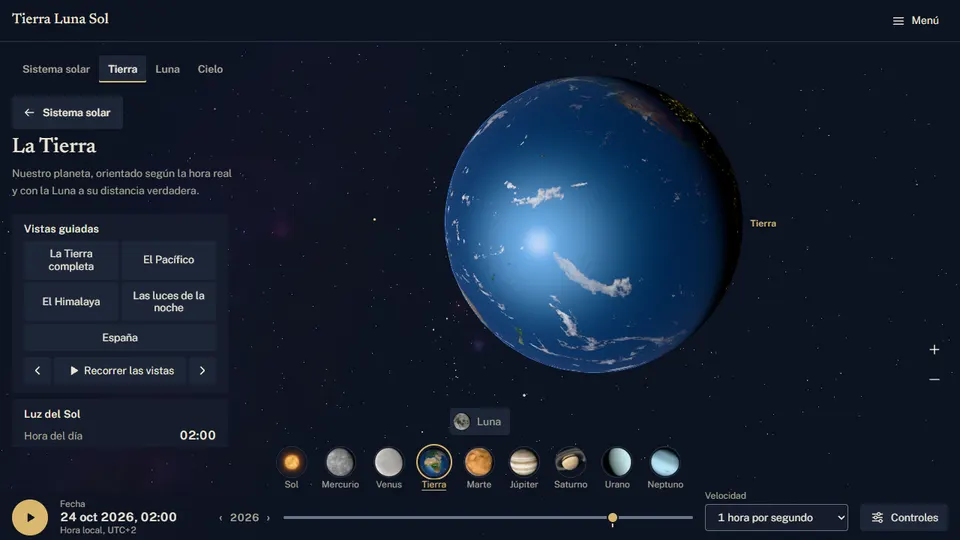
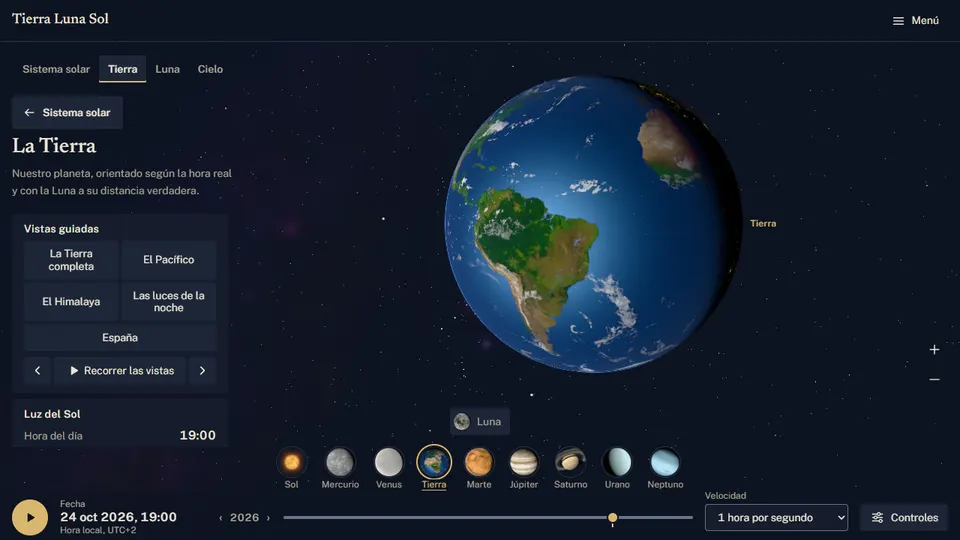
fix: la revisión de la fase 11 (aprobada con cambios menores): producción solo desde etiqueta, el NEL en todas las respuestas y og:image comprobada
- deploy-production.yml: solo desde una etiqueta `v*`; el dominio, de site.config.ts; un fallo
  pasajero de `gh run list` no corta la espera; verifica también tierra-luna-sol.pages.dev.
- verify-pages.mjs: Set-Cookie, NEL y Report-To en todas las respuestas; og:image, una imagen que
  responde.
- «Sobre el proyecto»: la nota del NEL, más clara y exacta; e2e y lista de textos al día.
- README y CHANGELOG con las cifras de su fuente; la Tierra del README, de día y al anochecer.
- El informe, con la respuesta a la revisión; PENDIENTES, al día.

Changed region(s): [[0.4688, 0.1481, 0.75, 0.7111], [0.1875, 0.8, 0.2188, 0.8296], [0.125, 0.9481, 0.1562, 0.9778]]

diff --git a/src/app/pages/about/about-page.html b/src/app/pages/about/about-page.html
@@ -410,10 +410,10 @@
       navegador: no va a la dirección de la página ni se guarda.
     </li>
     <li>
-      En {{ host }} no se envían informes de errores al alojamiento (Network Error Logging): están
-      desactivados. Solo los pide Cloudflare Pages, el alojamiento, en sus propias direcciones (las
-      que acaban en pages.dev, como las vistas previas), a Chrome y Edge y cuando una petición
-      falla.
+      En {{ host }}, el alojamiento no recibe informes de errores (Network Error Logging): están
+      desactivados. En sus propias direcciones, las que acaban en pages.dev (como las vistas
+      previas), Cloudflare Pages pide a algunos navegadores (Chrome y Edge) que le envíen un informe
+      cuando falla una petición.
     </li>
   </ul>
   <p>

diff --git a/e2e/contenido.spec.ts b/e2e/contenido.spec.ts
@@ -362,7 +362,9 @@ test.describe('Compartir, legal y privacidad (fase 9)', () => {
     // propio no se envía (lo quita una regla de la zona); solo en las direcciones de pages.dev.
     const privacy = page.locator('section[aria-labelledby="privacidad"]');
     await expect(privacy).toContainText('Network Error Logging');
-    await expect(privacy).toContainText('En tierra-luna-sol.ivanchesa.com no');
+    await expect(privacy).toContainText(
+      'En tierra-luna-sol.ivanchesa.com, el alojamiento no recibe',
+    );
   });
 
   test('en escritorio, la cabecera de las páginas de lectura, en una fila y sin lo legal (hallazgo 4)', async ({

diff --git a/docs/revisiones/fase-11.md b/docs/revisiones/fase-11.md
@@ -1,0 +1,57 @@
+# Revisión: Fase 11
+Veredicto: APROBADA CON CAMBIOS MENORES
+
+Revisor: subagente sin el contexto de la sesión que la programó (10-11). Leídos `CLAUDE.md`, `docs/PLAN.md` (§0–§5, §7 y la fase 11), `docs/revisiones/README.md`, `docs/informes/fase-11.md` y el diff `main...fase-11-lanzamiento` (6 commits, de `4aa5481` a `534d6e4`). Sin Bloqueantes. Lo de la rama está bien hecho y el camino normal de `deploy-production.yml` es correcto; el hallazgo importante es del **plan** de la verificación en producción (hallazgo 1), que se arregla en el informe antes de fusionar.
+
+## `npm run check` (rama `fase-11-lanzamiento`, `534d6e4`)
+
+Salida 0, en unos 3 min:
+
+- `ng lint`: «All files pass linting»; Prettier, bien.
+- Tests: **835 en verde (85 ficheros)**. Cobertura de `ephemeris/`: 98,87 % de sentencias, 94,16 % de ramas, 100 % de funciones y **99,69 % de líneas** (umbral, 90 %).
+- Build: **sin avisos de presupuesto**. JS inicial, **319,67 kB** en bruto (90,23 kB transferidos): igual que `main` en su último CI (ejecución 42881759191, 319,67 kB), a 0,33 kB del aviso de 320. `prepare-pages.mjs`: 39 rutas como `ruta.html`, 40 páginas, 386 rutas absolutas, 4 scripts en línea en la CSP, **39 URLs en `sitemap.xml`**, 295 ficheros.
+- `check-initial-bundle.mjs`: ninguna de las 40 páginas lleva three, astronomy-engine, los stores ni los controles; código propio inicial, 13,98 kB de 15.
+- `check-links.mjs`: 40 páginas, 1243 enlaces internos bien.
+
+## Otras comprobaciones
+
+- `npx playwright test --list`: **153 tests en 23 ficheros** (los 140 + 13 omitidos del informe).
+- `node scripts/verify-browser.mjs http://127.0.0.1:4392`, contra el build local servido en el 4392: las 10 rutas sin panel de rendimiento, 372 peticiones, 0 a otros dominios y 0 cookies. El script funciona.
+- El build: `robots.txt` con `Allow: /` y el `Sitemap:` del dominio; `sitemap.xml` con las 39 rutas menos la 404; `noindex` solo en `404.html`; el canónico de la raíz, con barra; la nota del NEL, con el dominio interpolado. Sin `http://` ni direcciones de correo en el HTML (lo que reescribirían en el dominio propio la ofuscación de correos o las reescrituras a HTTPS de la zona).
+- Solo lectura, sin tocar nada: `https://ivanchesa.com/aviso-legal/` y `/privacidad/`, 200. `http://tierra-luna-sol.ivanchesa.com/`, 301 a https. El dominio propio (la producción, vacía) responde 404 **sin `NEL` ni `Report-To`**: la regla de la zona funciona. `staging.tierra-luna-sol.pages.dev`, con `x-robots-tag: noindex`, `Report-To` y `NEL`. La portada de ivanchesa.com, en la misma zona, sin nada inyectado (ni el beacon de Web Analytics, ni `challenge-platform`, ni `email-decode`, ni Zaraz), sin `Set-Cookie` y con `Cache-Control: public, max-age=0, must-revalidate`: la zona no toca el HTML ni la caché. Hoy, `/robots.txt` del dominio propio es el texto de Content Signals de Cloudflare (solo comentarios), porque aún no hay producción.
+- El CI de la rama (`534d6e4`, ejecución 42887119186, consultado sin tocar nada): **en verde**, en 28 min. Los e2e en Linux, **152 en verde y 1 omitido** (con la regresión visual), en 23,9 min. Lighthouse, en verde, con un solo aviso: el rendimiento del explorador, **0,49** (en `main`, 0,64). Y la vista previa: `verify-pages.mjs`, con sus comprobaciones nuevas, contra `https://f2af6458.tierra-luna-sol.pages.dev`, **37 de 38 bien y 1 aviso** (el NEL, como se espera en pages.dev): `noindex` por cabecera y no en el HTML, `robots.txt` con el sitemap, `sitemap.xml` como `application/xml` con 39 URLs (el tipo que imita `serve-dist.mjs`), el 404 con `noindex`, el HTML idéntico al del build y sin `Set-Cookie`.
+- Lo que dura hoy el CI: de 28 a 30 min en las últimas ejecuciones de `main`, de la fase 10 y de esta rama.
+
+## `deploy-production.yml`
+
+Correcto en el camino normal (fusión, push de `main`, etiqueta y su push):
+
+- Publica solo el build que verificó el CI de ese mismo commit: el SHA sale de `git rev-parse HEAD` tras el checkout de la etiqueta (con una etiqueta anotada, el commit y no el objeto etiqueta); la ejecución, de `gh run list --workflow ci.yml --commit <sha> --event push` (las de `pull_request` no cuentan; con varias, la más reciente); y solo con `conclusion == success`, que deja fuera `failure`, `cancelled` o `timed_out`. Como exige el CI entero, la producción espera también a Lighthouse (accesibilidad y buenas prácticas, como error) y a la vista previa.
+- El artefacto de otra ejecución, con `run-id` y `github-token`, y `actions: read` en el trabajo; permisos mínimos (`contents: read`), los secrets solo en el paso de wrangler, `persist-credentials: false`, las acciones fijadas por SHA (las de `ci.yml`) y la concurrencia sin cancelar.
+- `--branch=main` es la rama de producción del proyecto (creado con `--production-branch=main`) y `--commit-hash` lleva el SHA verificado.
+- La verificación en la dirección del despliegue (`<hash>.tierra-luna-sol.pages.dev`, con su `noindex` por la regla `:version.:project`) y en el dominio, con reintentos y comparando el HTML con el del build.
+- Casos límite: con el CI en rojo o cancelado (por ejemplo, por otro push a `main` en mitad), sale con error y no publica; sin CI, espera 45 min y falla; con el artefacto caducado (7 días), falla la descarga y no publica. Lo que queda: el lanzamiento manual desde una rama (hallazgo 2), un error pasajero de la API (3), el dominio repetido (4), la dirección de producción en pages.dev (5) y la espera (14).
+
+## El plan de la verificación en producción
+
+Bien encaminado: `verify-pages.mjs` (ahora con `Set-Cookie`, el `X-Robots-Tag` y el NEL en las dos direcciones, `robots.txt`, `sitemap.xml` y `noindex` solo en la 404), `verify-browser.mjs` (terceros, cookies, consola y el panel de desarrollo, con la GPU) y Lighthouse con `LHCI_BASE` (informes solo en el disco). La desviación de «contra el build local» está documentada y es lo que pide la tarea 2 (y lo que ya preveía `PENDIENTES.md`:185). Le falta: cómo se juzga Lighthouse frente a §5 (hallazgo 1), la dirección de producción en pages.dev (5), el NEL en más de una respuesta (6) y la vista previa del enlace con el dominio real (12).
+
+## Hallazgos
+
+| # | Severidad | Archivo:línea | Hallazgo | Qué hacer |
+|---|---|---|---|---|
+| 1 | Importante | `docs/informes/fase-11.md`:18 y :30; `lighthouserc.js`:98 | El plan no dice cómo se juzga «Lighthouse en producción cumple §5», y el resultado de `lhci assert` no lo dice: el rendimiento del explorador es un aviso (`scores(0.9, 'warn')`) y el LCP, el CLS y el TBT no tienen aserción. Y ya se sabe que el explorador no llega: 0,76 en local, con un LCP simulado de 2,5 a 5,0 s (informe de la fase 10, §2 y §4.22), y 0,64 en el último CI de `main` (0,49 en el de esta rama); la decisión está pendiente de Iván (`PENDIENTES.md`:184). Tal como está, el criterio podría darse por cumplido con el `lhci assert` en verde. | En §0 (paso 4) y §2, decirlo ya: el criterio no se cumple en el explorador salvo que Iván elija la opción 1 de `PENDIENTES.md`:184. Al medir, sacar de `.lighthouseci/informes` la mediana de cada URL (rendimiento, accesibilidad, buenas prácticas, LCP, CLS y TBT), compararla con §5 una a una y marcar ⚠ o ❌ donde no llegue. Con el equipo libre (sin otras sesiones ni builds en marcha). |
+| 2 | Menor | `.github/workflows/deploy-production.yml`:13 | `workflow_dispatch` acepta cualquier ref. Con «Run workflow» y la rama que trae el formulario por defecto (`main`), publica en producción la cabeza de `main` sin etiqueta (el resumen diría «Versión: `main`»), en contra de «desplegada por etiqueta» y del CHANGELOG. | En el trabajo, `if: startsWith(github.ref, 'refs/tags/v')`, o un primer paso que falle con un `::error::` claro. |
+| 3 | Menor | `.github/workflows/deploy-production.yml`:56–57 | El paso corre con `bash -e`: si una de las ~90 llamadas a `gh run list` falla por un error pasajero de la API, `run=$(…)` aborta el paso en vez de volver a mirar a los 30 s. No publica nada (es seguro), pero obliga a relanzarlo. | `run=$(gh run list …) || run=''`, con un aviso, para que el bucle siga. |
+| 4 | Menor | `.github/workflows/deploy-production.yml`:35 | `SITE_URL` repite el dominio, que según `CLAUDE.md` vive solo en `site.config.ts` (el propio informe lo invoca para `robots.txt`, §4). Si el dominio cambia, el workflow verificaría el viejo. | Leerlo de `site.config.ts` en un paso (`node --input-type=module -e` con `import('./src/app/core/site.config.ts')`, como ya hacen los scripts con Node 24), o que `verify-pages.mjs` acepte `--site` con `SITE_CONFIG.baseUrl` por defecto. |
+| 5 | Menor | `.github/workflows/deploy-production.yml`:120; `public/_headers`:27 y :30 | La verificación mira la dirección del despliegue (que casa con la regla `https://:version.:project.pages.dev/*`) y el dominio, pero no `https://tierra-luna-sol.pages.dev`, la dirección de producción en pages.dev: es la única que depende de la regla `https://:project.pages.dev/*`. Ninguna de las dos reglas se ha probado sola (en las vistas previas, Pages pone su propio `noindex`), y esa, ni siquiera se ha podido pedir: la producción estaba vacía (hoy, 404). Si no casara, esa dirección se indexaría ahora que el sitio es indexable. | Añadirla a los destinos del bucle (o, como mínimo, a la verificación manual del §0, paso 4). |
+| 6 | Menor | `scripts/verify-pages.mjs`:103–108 y :36 | El NEL solo se mira en la respuesta de `/`. «Sobre el proyecto» promete ya que en el dominio no se envían informes, y la política la fija cualquier respuesta (un 404, un JS, una textura). Además, el comentario «todas las peticiones pasan por `get`» no es cierto: las de los `Link` (:158) y la de `http://` (:232) van con `fetch` y no se miran sus `Set-Cookie`. | Registrar `NEL` y `Report-To` en `get`, como `Set-Cookie`, y comprobarlos en todas las respuestas (error en el dominio, aviso en pages.dev); pasar por el mismo registro las otras dos peticiones. |
+| 7 | Menor | `src/app/pages/about/about-page.html`:413–416 | La segunda frase de la nota del NEL junta cuatro complementos («Solo los pide Cloudflare Pages, el alojamiento, en sus propias direcciones (…), a Chrome y Edge y cuando una petición falla») y dice que el alojamiento los pide cuando falla una petición: los pide en cada respuesta y el navegador solo envía el informe si falla. También pasa de «algunos navegadores (Chrome y Edge)» a «Chrome y Edge», como si fueran los únicos. `docs/ESTILO.md` §2: una idea por frase. | Por ejemplo: «En {{ host }}, el alojamiento no recibe informes de errores (Network Error Logging): están desactivados. En sus propias direcciones, las que acaban en pages.dev (como las vistas previas), Cloudflare Pages pide a algunos navegadores (Chrome y Edge) que le envíen un informe cuando falla una petición.» Ajustar el e2e (`e2e/contenido.spec.ts`:365) y regenerar `docs/revision-textos.md`. |
+| 8 | Menor | `README.md`:32 y :101; `CHANGELOG.md`:28 | Cifras que no cuadran con su fuente. Los e2e son **153** (`npx playwright test --list`; el informe, 140 + 13 omitidos; el CI de la rama, 152 + 1), no 151 (README) ni 152 (CHANGELOG, la cifra de la fase 10). Y las vistas previas no esperan a Lighthouse: el trabajo `deploy` de `ci.yml` (:182) solo necesita `check` y `e2e`, y el propio `ci.yml` (:133) dice que Lighthouse «no frena la vista previa» (sí frena la producción, que exige el CI entero en verde). | «153 e2e» en los dos. En el README, «(lint, tests, build y e2e)» para las vistas previas y, si se quiere, que la producción exige además Lighthouse. |
+| 9 | Menor | `README.md`:76, :79 y :81; `CHANGELOG.md`:25 | Afirmaciones más redondas que su fuente. «59–60 FPS en todas las vistas y niveles» calla que Fobos en alto pinta a 5–9 FPS a 1 día/s, a propósito (fase 10, §4.26; lo arrastra también «Sobre el proyecto»). El CLS «0» es el de la fase 3c, en tres móviles, aunque la tabla dice medir en el PC de la fase 10, que da 0,006 en el explorador (§4.22). El presupuesto del JS inicial es «aviso a 320 kB, error a 400», y 319,7 kB está a 0,3 kB del aviso. Y «axe sin violaciones» es, en `e2e/accesibilidad.spec.ts`:15–21, «sin violaciones graves ni críticas» (el criterio de §5). | Matizarlo: «60 (a 1 día/s, Fobos en alto pinta a 5–9 a propósito)», «CLS ≤ 0,006» con su informe, «320 kB (aviso) · 400 (error)» y «axe sin violaciones graves ni críticas». |
+| 10 | Menor | `docs/informes/fase-11.md`:60 | «98,87 % de líneas»: el 98,87 % es la cobertura de sentencias; la de líneas es el 99,69 %. | Corregir la etiqueta (o dar las dos). |
+| 11 | Menor | `docs/PENDIENTES.md`:58, :106 y :191–194 | Lo que resuelve esta rama sigue abierto. Se quita el `TODO(ivan)` de los enlaces legales de `site.config.ts`, pero la entrada :106 sigue «[ ]», cita ese `TODO` y el modo «pendientes del dominio» de `check-links.mjs`, que ya no existe. La :58 dice que `verify-pages` marca el NEL como aviso (ahora es error en el dominio). Y en «Fase 11», el dominio (:191) y el OK a `indexable` (:192) ya están; el sitemap ahora sí existe, así que darlo de alta en Search Console vuelve a tener sentido. | Actualizarlas en la rama antes de fusionar. La lista nueva para Iván (§0, paso 5) puede quedarse para el cierre. |
+| 12 | Menor | `docs/informes/fase-11.md`:18 | El plan de verificación no recoge la vista previa del enlace con el dominio real, el criterio de la fase 9 que esperaba al dominio (`PENDIENTES.md`:107: `og:image` es una URL del dominio, que hasta ahora no se podía pedir). | Añadir al paso 4 que `og:image` responde 200 y es una imagen (cabe en `verify-pages.mjs`) y una captura en una app real o en un validador. |
+| 13 | Menor | `README.md`:20 (`docs/img/readme/tierra.webp`) | Con la hora de `?captura=1` (00:00 UTC), la Tierra enseña casi solo el Pacífico: una bola azul con un brillo grande, sin relieve a la vista y con las luces apenas en el borde. El texto alternativo promete «su relieve, sus nubes y las luces de la noche», y es la imagen con la que se juzga la Tierra en el portfolio. Las demás (portada, Luna, Saturno, cielo, ficha y la animación) están bien. | Otra hora, con continentes y el terminador (por ejemplo, `&fecha=2026-10-24T17:00Z`, con Europa y África al anochecer), o la vista guiada de las luces; y el texto alternativo de lo que se vea. |
+| 14 | Sugerencia | `.github/workflows/deploy-production.yml`:55 y :77 | La espera (45 min) cubre lo que tarda hoy el CI (28–30 min), pero no sus tiempos máximos (check 20 + e2e 40 + vista previa 20): si se pasa, no publica. Sin CI (una etiqueta en un commit que no está en ninguna rama), tarda 45 min en decirlo. Y «relanzar su CI» (comentario de :9) para recuperar un artefacto caducado también vuelve a publicar ese build en su vista previa (en `staging`, si es de `main`). | Decirlo en el `::error::` («relanza Producción desde la etiqueta cuando acabe el CI») y en el comentario. Opcional: comprobar que la versión de la etiqueta es la de `package.json`. |
+| 15 | Sugerencia | `docs/informes/fase-11.md`:18 | Si la verificación falla en el dominio y no en pages.dev, la causa estará en la zona: el `robots.txt` gestionado de Cloudflare (añade `Disallow: /` para los bots de IA y haría saltar «robots.txt sin bloquear el rastreo»), las detecciones de JavaScript de Bot Fight Mode y su cookie `__cf_bm`, Rocket Loader, Zaraz o Web Analytics automático. Hoy ivanchesa.com, en la misma zona, no lleva nada de eso. | Apuntarlo en el informe para diagnosticarlo rápido. El arreglo sería de Iván, en la zona. |

diff --git a/docs/informes/fase-11.md b/docs/informes/fase-11.md
@@ -15,26 +15,28 @@ Instrucciones de Iván y de la sesión de revisión (10-11): se lanza ya, antes 
    - La nota del NEL en «Sobre el proyecto»: en el dominio propio no se envía. Los enlaces legales del pie, comprobados.
 2. `npm run check`, los e2e, este informe, la revisión por subagente y sus correcciones.
 3. Fusión `--no-ff` en `main`, push, etiqueta `v1.0.0` y su push; esperar al despliegue de producción en verde.
-4. **Tarea 2, verificación en producción**, con cifras: `curl` de las rutas, del 404 y de las cabeceras (sin Set-Cookie, sin NEL ni Report-To, X-Robots-Tag solo en pages.dev); Lighthouse frente a §5; el panel de rendimiento, ausente; ninguna petición a terceros. Si algo falla, corregir y publicar `v1.0.1`.
+4. **Tarea 2, verificación en producción**, con cifras: `curl` de las rutas, del 404 y de las cabeceras (sin Set-Cookie, sin NEL ni Report-To, X-Robots-Tag solo en pages.dev); Lighthouse frente a §5; el panel de rendimiento, ausente; ninguna petición a terceros; `og:image`, una imagen del dominio que responde. Si algo falla, corregir y publicar `v1.0.1`.
+   - **Cómo se juzga Lighthouse** (revisión, hallazgo 1): con el equipo libre, la mediana de 5 cargas de cada URL de la muestra (rendimiento, accesibilidad, buenas prácticas, LCP, CLS y TBT), comparada con §5 una a una, con ⚠ o ❌ donde no llegue; no basta con `lhci assert` en verde, porque el rendimiento del explorador va como aviso. **Se sabe ya que el explorador no llega a 0,90** (0,76 en local en la fase 10): ese criterio no se cumple salvo que Iván elija la opción 1 de `PENDIENTES.md` (dejarlo como aviso).
+   - **Si algo falla en el dominio y no en pages.dev** (revisión, sugerencia 15), la causa estará en la zona: el `robots.txt` gestionado de Cloudflare, Bot Fight Mode y su cookie `__cf_bm`, Rocket Loader, Zaraz o Web Analytics automático. El arreglo sería de Iván, en la zona.
 5. **Tarea 5**, la lista para Iván en `PENDIENTES.md`, y el DIARIO.
 
 ## 1. Resumen
 
-El sitio pasa a indexable, con `robots.txt` y `sitemap.xml` generados desde `site.config.ts`, y la producción se publica por etiqueta con `deploy-production.yml`, que reutiliza el build que verificó el CI. «Sobre el proyecto» dice ya que en el dominio propio no se envía Network Error Logging. El README es ya de portfolio, con capturas y una animación, y hay CHANGELOG. La verificación en producción (`verify-pages.mjs`, `verify-browser.mjs` y Lighthouse con `LHCI_BASE`) se completa al publicar `v1.0.0` (§4).
+El sitio pasa a indexable, con `robots.txt` y `sitemap.xml` generados desde `site.config.ts`, y la producción se publica por etiqueta con `deploy-production.yml`, que reutiliza el build que verificó el CI. «Sobre el proyecto» dice ya que en el dominio propio no se envía Network Error Logging. El README es ya de portfolio, con capturas y una animación, y hay CHANGELOG. La verificación en producción (`verify-pages.mjs`, `verify-browser.mjs` y Lighthouse con `LHCI_BASE`) se completa al publicar `v1.0.0` (§12).
 
 ## 2. Criterios de aceptación
 
 | Criterio | ✅/❌ | Evidencia |
 |---|---|---|
-| `v1.0.0` publicada en producción con HTTPS, desplegada por etiqueta | pendiente | §4 |
-| Las comprobaciones con `curl` y Lighthouse en producción cumplen §5 | pendiente | §4 |
+| `v1.0.0` publicada en producción con HTTPS, desplegada por etiqueta | pendiente | §12 |
+| Las comprobaciones con `curl` y Lighthouse en producción cumplen §5 | pendiente; el rendimiento del explorador en Lighthouse no llegará a 0,90 (decisión de Iván, `PENDIENTES.md`) | §12 |
 
 ## 3. Tareas del plan
 
 | Tarea | Estado | Notas |
 |---|---|---|
 | 11.1 `deploy-production.yml` | hecha (sin estrenar) | `.github/workflows/deploy-production.yml` |
-| 11.2 Verificación en producción | pendiente | §4 |
+| 11.2 Verificación en producción | pendiente | §12 |
 | 11.3 README, CHANGELOG y `v1.0.0` | README y CHANGELOG hechos; la etiqueta, al publicar | |
 | 11.4 `indexable: true` | hecha | `robots.txt` y `sitemap.xml` (39 URLs) generados; `noindex` solo en la 404 |
 | 11.5 Lista para Iván | pendiente | `PENDIENTES.md` |
@@ -57,7 +59,8 @@ El sitio pasa a indexable, con `robots.txt` y `sitemap.xml` generados desde `sit
 ```
 npm run check (10-11, rama fase-11-lanzamiento)
 - ng lint: All files pass linting; Prettier, bien.
-- Tests: 835 passed (85 ficheros); cobertura de ephemeris/: 98,87 % de líneas (umbral, 90 %).
+- Tests: 835 passed (85 ficheros); cobertura de ephemeris/: 98,87 % de sentencias y 99,69 % de
+  líneas (umbral, 90 %).
 - Build: sin avisos de presupuesto. Initial total 319,67 kB en bruto (90,23 kB transferidos).
 - Pages: 39 rutas como ruta.html, 40 páginas, 386 rutas de recursos absolutas, 4 scripts en línea en
   la CSP, 39 URLs en sitemap.xml, 295 ficheros.
@@ -90,3 +93,29 @@ Se quita el `TODO(ivan)` de los enlaces legales (`site.config.ts`): ivanchesa.co
 - `node --disable-warning=MODULE_TYPELESS_PACKAGE_JSON scripts/verify-pages.mjs https://tierra-luna-sol.ivanchesa.com`
 - `node scripts/verify-browser.mjs https://tierra-luna-sol.ivanchesa.com`
 - `LHCI_BASE=https://tierra-luna-sol.ivanchesa.com npm run lighthouse`
+
+---
+
+## Respuesta a la revisión
+
+Revisión del subagente: **APROBADA CON CAMBIOS MENORES** (`docs/revisiones/fase-11.md`): 0 Bloqueantes, 1 Importante, 13 Menores y 2 Sugerencias. Corregidos todos menos lo que va a producción (la verificación se hace tras publicar, §12).
+
+| Hallazgo | Acción | Commit |
+|---|---|---|
+| 1 (Importante) Cómo se juzga Lighthouse frente a §5 | §0, paso 4, y §2: la mediana de 5 cargas por URL, comparada con §5 una a una (rendimiento, accesibilidad, buenas prácticas, LCP, CLS y TBT); el explorador, ya sabido que no llega a 0,90 (decisión de Iván) | este |
+| 2 `workflow_dispatch` con cualquier ref | `if: startsWith(github.ref, 'refs/tags/v')` en el trabajo | este |
+| 3 Un fallo pasajero de `gh run list` cortaba la espera | Si falla, un aviso y `run=''`: se vuelve a mirar a los 30 s | este |
+| 4 El dominio repetido en el workflow | Se lee de `site.config.ts` en un paso («El dominio») | este |
+| 5 Sin comprobar `tierra-luna-sol.pages.dev` | Añadida a la verificación del workflow (tres direcciones) | este |
+| 6 El NEL solo en `/` y peticiones fuera del registro | `record()`: `Set-Cookie`, `NEL` y `Report-To` en todas las respuestas, también las de los `Link` y la de `http://` | este |
+| 7 La nota del NEL, con cuatro complementos e inexacta | Reescrita como propone la revisión; e2e ajustado y `docs/revision-textos.md` regenerado | este |
+| 8 e2e 151/152 y Lighthouse en las vistas previas | «153 e2e» en el README y el CHANGELOG; las vistas previas, «lint, tests, build y e2e»; la producción, con todo el CI | este |
+| 9 Cifras más redondas que su fuente | Fobos en alto a 1 día/s (5–9 FPS, a propósito), CLS ≤ 0,006, el JS inicial con aviso y error, axe «sin violaciones graves ni críticas» | este |
+| 10 «98,87 % de líneas» | 98,87 % de sentencias y 99,69 % de líneas | este |
+| 11 `PENDIENTES.md` desfasado | El NEL, los enlaces legales, el dominio, `indexable` e ivanchesa.com, cerrados; Search Console, opcional | este |
+| 12 `og:image` con el dominio real | `verify-pages.mjs` comprueba que responde 200 y es una imagen; la vista previa en una app real, para Iván (`PENDIENTES.md`) | este |
+| 13 La captura de la Tierra, casi solo el Pacífico | Rehecha a las 17:00 UTC (Sudamérica de día y África al anochecer), con su texto alternativo | este |
+| 14 (Sugerencia) La espera de 45 min | El `::error::` dice que se relance Producción desde la etiqueta; el comentario, que relanzar el CI vuelve a publicar la vista previa | este |
+| 15 (Sugerencia) Diagnóstico si falla solo el dominio | Apuntado en §0, paso 4 | este |
+
+Tras las correcciones: `npm run check` en verde (835 tests; build sin avisos de presupuesto), las imágenes del README rehechas y `e2e/contenido.spec.ts`, 18 en verde.

diff --git a/docs/PENDIENTES.md b/docs/PENDIENTES.md
@@ -55,7 +55,7 @@ Decisiones y tareas que dependen de Iván. Claude Code añade aquí cada `TODO(i
 - [x] **Abrir la vista previa en tu móvil** (fase 4): Iván probó staging (https://staging.tierra-luna-sol.pages.dev, `main` con la fase 6) en su móvil el 31-10 y va bien.
 - [ ] (Opcional) **Vistas previas privadas:** son públicas (con `noindex`). Si las quieres con acceso restringido, en el panel de Cloudflare: Pages → `tierra-luna-sol` → Settings → «Access policy» (Cloudflare Access, gratis hasta 50 usuarios).
 - [x] **Web Analytics desactivado** en el proyecto de Cloudflare (D24): comprobado por Iván en el panel el 31-10.
-- [x] **Network Error Logging de Cloudflare (D24).** Decidido el 30-10 (revisión del bloque C, C8): se **acepta como telemetría del propio alojamiento** (solo informa de las peticiones que fallan) y se explica en la privacidad (fase 9); en la fase 11, con el dominio propio, se mira si la zona permite desactivarlo. `verify-pages` lo sigue marcando como aviso.
+- [x] **Network Error Logging de Cloudflare (D24).** Decidido el 30-10 (revisión del bloque C, C8): se **acepta como telemetría del propio alojamiento** (solo informa de las peticiones que fallan) y se explica en la privacidad (fase 9); en la fase 11, con el dominio propio, se mira si la zona permite desactivarlo. **Desactivado en el dominio propio** (fase 11, 10-11): lo apagó la sesión de ivanchesa.com y una regla de la zona quita `NEL` y `Report-To` en el subdominio; solo sale en las direcciones de pages.dev. `verify-pages` lo da como error en el dominio y como aviso en pages.dev; «Sobre el proyecto» lo cuenta.
 - [ ] (Opcional) **Un entorno de GitHub para los secrets de Cloudflare**, que los limite al trabajo de despliegue (Settings → Environments). Hoy valen para todo el repositorio y solo los usan los pasos de wrangler.
 - [ ] (Fase 11) **¿Explorador incrustable en ivanchesa.com?** Hoy `frame-ancestors 'none'` y `X-Frame-Options: DENY` impiden incrustarlo en otra web. Si quieres una demo incrustada en el portfolio: `frame-ancestors https://ivanchesa.com` y sin `X-Frame-Options`.
 
@@ -103,7 +103,7 @@ Decisiones y tareas que dependen de Iván. Claude Code añade aquí cada `TODO(i
 - [ ] **Probar el cielo en tu móvil** (no bloquea), en la vista previa: `/cielo` con el panel compacto, «Usar mi ubicación» (pide permiso solo al pulsarlo) y el deslizador de la hora; y `/eclipses` con «Ver en 3D».
 
 ## Bloque E (fase 9: contenido y compartir)
-- [ ] **Los enlaces legales y el del autor, a ivanchesa.com** (D37): `https://ivanchesa.com/aviso-legal/` y `/privacidad/` (como en ivanchesa.es), en `site.config.ts`. Hoy ivanchesa.com no resuelve (NXDOMAIN, 03-11, y otra vez el 08-11: revisión del bloque S, S6); cuando responda, comprobar que esas páginas existen: `node scripts/check-links.mjs --externos` (los marca como pendientes del dominio, no como rotos). `TODO(ivan)` en `site.config.ts`. **Se queda ivanchesa.com** (S6): la fase 11 empieza cuando el dominio exista (lo lleva la sesión de ivanchesa.com) y, si para entonces no tiene las páginas legales, los enlaces pasan provisionalmente a las de ivanchesa.es (allí responden las dos, 200).
+- [x] **Los enlaces legales y el del autor, a ivanchesa.com** (D37): `https://ivanchesa.com/aviso-legal/` y `/privacidad/`, en `site.config.ts`. **Hecho en la fase 11** (10-11): ivanchesa.com ya responde y las dos páginas dan 200 (sin la barra final, 308 a la URL con ella). Fuera el `TODO(ivan)` de `site.config.ts` y el trato de «pendiente» de `check-links.mjs`.
 - [ ] **La vista previa del enlace en una app real** (WhatsApp, Telegram, Slack…): cuando exista el dominio (fase 11). Hoy, simulada con las etiquetas del HTML (`scripts/preview-og.mjs`, capturas en `docs/informes/img/fase-9/compartir-*.webp`): la imagen es una URL absoluta del dominio y no se puede pedir desde fuera.
 - [ ] **Lighthouse**: no se ha ejecutado. Sus métricas, medidas con `scripts/measure-pages.mjs` en las condiciones de su móvil y con el PC sin otras tareas: 99 de nota estimada en las nueve páginas de la muestra (las cinco fichas, los índices, los créditos y «Sobre el proyecto»), con CLS 0. La definitiva, en la fase 10 (Lighthouse en el CI: `@lhci/cli`, abajo) y en producción, en la fase 11.
 - [ ] (Fase 10) **La fuente en un móvil real**: con `font-display: optional`, en una primera visita con la red lenta el texto se queda en la fuente de reserva toda la visita (revisión de la fase 9, hallazgo 15): mirar si Public Sans llega a tiempo y, si no, valorar `swap` con `ascent-override`, `descent-override` y `line-gap-override`. Y las de reserva del mismo ancho son Arial y Georgia, que Android no tiene: medir allí el desplazamiento al cargar (en tu móvil).
@@ -188,8 +188,9 @@ Iván dejó en la sesión de revisión lo que tenía pendiente de decidir: «dec
 - [ ] **Decidir sobre la hidratación incremental de las fichas** (tú o la sesión de revisión; informe de la fase 10, §5 y §10): no se hizo porque el código propio inicial ya está en 13,98 kB de 15; es lo que más bajaría la tarea del arranque que deja a `/lunas/titan` y `/planetas/marte` en 0,91–0,95 en el CI. Propuesta: al backlog, o a la fase 11 si el rendimiento de las fichas debe volver a ser error en el CI.
 
 ## Fase 11 (manual; era la fase 10 del plan v1)
-- [ ] El dominio propio (D37): en Cloudflare Pages → `tierra-luna-sol` → «Custom domains», `tierra-luna-sol.ivanchesa.com`. La zona de ivanchesa.com está en la misma cuenta de Cloudflare: el propio panel crea el registro DNS. Los secrets de Cloudflare ya sirven (fase 4).
-- [ ] Dar el OK a `indexable: true` y dar de alta el sitemap en Search Console. Con el plan v2 (D25) ya no se trabaja el sitemap: basta con el OK a `indexable: true`.
+- [x] El dominio propio (D37): en Cloudflare Pages → `tierra-luna-sol` → «Custom domains», `tierra-luna-sol.ivanchesa.com`. **Hecho** (activo el 10-11). La zona de ivanchesa.com está en la misma cuenta de Cloudflare: el propio panel crea el registro DNS. Los secrets de Cloudflare ya sirven (fase 4).
+- [x] Dar el OK a `indexable: true`: **dado** (10-11). Desde la fase 11 el build publica `sitemap.xml` (generado, sin lista a mano) y lo cita en `robots.txt`.
+- [ ] (Opcional) **Dar de alta el sitemap en Search Console**: `https://tierra-luna-sol.ivanchesa.com/sitemap.xml`. Ahora existe; el SEO es secundario (D25), así que no corre prisa.
 - [ ] Añadir la ficha del proyecto en ivanchesa.com.
-- [ ] **ivanchesa.com, que exista** (revisión del bloque S, S6; lo lleva la sesión de ivanchesa.com): la fase 11 empieza entonces (arriba, en «Bloque E (fase 9)»).
+- [x] **ivanchesa.com, que exista** (revisión del bloque S, S6): publicada (10-11).
 - [ ] (Claude Code, a petición de Iván del 08-11) **Comprobar en producción que no sale el panel de rendimiento** (FPS, CPU, llamadas, VRAM…). Solo se ve con `ng serve`, porque `viewer-canvas.ts` lo enseña con `isDevMode()`, y el build publicado no lo lleva. Iván lo vio en su PC con el servidor de desarrollo.

diff --git a/README.md b/README.md
@@ -17,7 +17,7 @@ Explorador 3D del Sol, los ocho planetas y veintiuna lunas, en español, con sus
 
 | | |
 |---|---|
-| ![La vista general del sistema solar](docs/img/readme/portada.webp) | ![La Tierra con su relieve, sus nubes y las luces de la noche](docs/img/readme/tierra.webp) |
+| ![La vista general del sistema solar](docs/img/readme/portada.webp) | ![La Tierra con Sudamérica de día y África al anochecer, con su relieve y sus nubes](docs/img/readme/tierra.webp) |
 | ![La Luna con el relieve de LOLA](docs/img/readme/luna.webp) | ![Saturno, sus anillos y sus lunas](docs/img/readme/saturno.webp) |
 | ![El cielo desde el Montsec](docs/img/readme/cielo.webp) | ![La ficha de Marte](docs/img/readme/ficha.webp) |
 
@@ -29,7 +29,7 @@ Las capturas son del propio explorador en el modo de captura determinista (`?cap
 - **Three.js 0.186**, directo y sin envoltorios, con shaders GLSL propios: sombreado por tipo de cuerpo, atmósferas, sombras de eclipses y de anillos analíticas y profundidad logarítmica.
 - **astronomy-engine** para el Sol, los planetas, la Luna, las lunas de Júpiter, las orientaciones, las salidas y puestas y los eclipses; las otras dieciséis lunas, con elementos orbitales ajustados a JPL Horizons.
 - **TypeScript estricto** (sin `any`) y **CSS propio** con custom properties, sin bibliotecas de interfaz.
-- **Pruebas:** Vitest (835 tests; cobertura de las efemérides, 98,9 %), Playwright (151 e2e con regresión visual), axe en todas las rutas y Lighthouse CI.
+- **Pruebas:** Vitest (835 tests; cobertura de las efemérides, 98,9 %), Playwright (153 e2e, con la regresión visual), axe en todas las rutas y Lighthouse CI.
 - **Despliegue:** Cloudflare Pages desde GitHub Actions, con el build verificado por el CI y sin builds en Cloudflare.
 
 ## Arquitectura
@@ -73,12 +73,12 @@ En un PC de escritorio con una RTX 3060 (detalle y método en el [informe de la 
 
 | Qué | Medido | Presupuesto |
 |---|---|---|
-| Imágenes por segundo, en todas las vistas y niveles de calidad | 59–60 | ≥ 55 |
+| Imágenes por segundo, en todas las vistas y niveles de calidad | 59–60 (salvo Fobos en alto a 1 día/s, que pinta a 5–9 a propósito) | ≥ 55 |
 | Memoria de vídeo de la vista Tierra (nivel alto y bajo) | 278 y 86 MB | 300 y 120 MB |
 | Las posiciones y orientaciones de los 30 cuerpos, por imagen | 0,17–0,19 ms | 2 ms |
-| JS inicial en bruto (y código propio en él) | 319,7 kB (14,0 kB) | 400 kB (15 kB) |
+| JS inicial en bruto (y código propio en él) | 319,7 kB (14,0 kB) | 320 kB de aviso y 400 de error (15 kB) |
 | Tarea más larga del arranque | 144 ms | 200 ms |
-| Desplazamiento al cargar (CLS) | 0 | 0,05 |
+| Desplazamiento al cargar (CLS) | ≤ 0,006 | 0,05 |
 | Imágenes pintadas en reposo | 0 | — |
 
 ## Privacidad
@@ -98,8 +98,8 @@ Sin cookies, sin analítica y sin peticiones a otros dominios: las fuentes, las 
 
 En Cloudflare Pages, desde GitHub Actions:
 
-- **Vistas previas** (`.github/workflows/ci.yml`): cada push con el CI en verde (lint, tests, build, e2e y Lighthouse) publica el build verificado en `<rama>.tierra-luna-sol.pages.dev`; el de `main`, en `staging.tierra-luna-sol.pages.dev`.
-- **Producción** (`.github/workflows/deploy-production.yml`): una etiqueta `v*` publica en [tierra-luna-sol.ivanchesa.com](https://tierra-luna-sol.ivanchesa.com) el mismo build que verificó el CI para ese commit, y `scripts/verify-pages.mjs` comprueba la publicación (rutas, 404, cabeceras, sin cookies ni NEL, el sitemap y el HTML servido idéntico al del build).
+- **Vistas previas** (`.github/workflows/ci.yml`): cada push con lint, tests, build y e2e en verde publica el build verificado en `<rama>.tierra-luna-sol.pages.dev`; el de `main`, en `staging.tierra-luna-sol.pages.dev`.
+- **Producción** (`.github/workflows/deploy-production.yml`): una etiqueta `v*` publica en [tierra-luna-sol.ivanchesa.com](https://tierra-luna-sol.ivanchesa.com) el mismo build que verificó el CI para ese commit (con todo el CI en verde, Lighthouse incluido), y `scripts/verify-pages.mjs` comprueba la publicación (rutas, 404, cabeceras, sin cookies ni NEL, el sitemap y el HTML servido idéntico al del build).
 
 ## Licencia
 

diff --git a/CHANGELOG.md b/CHANGELOG.md
@@ -22,10 +22,10 @@ La primera versión pública, con todas las funcionalidades del plan (`docs/PLAN
 - Una imagen para compartir, títulos y descripciones por página, `robots.txt`, `sitemap.xml` y canónicos en el dominio definitivo (fases 9 y 11).
 
 ### Calidad
-- Accesibilidad WCAG 2.1 AA: todo con teclado y con su equivalente sin 3D, axe sin violaciones en las 40 rutas, movimiento reducido en todas las animaciones y un modo sin WebGL (fases 3 y 10).
+- Accesibilidad WCAG 2.1 AA: todo con teclado y con su equivalente sin 3D, axe sin violaciones graves ni críticas en las 40 rutas, movimiento reducido en todas las animaciones y un modo sin WebGL (fases 3 y 10).
 - Rendimiento: pintado bajo demanda y al ritmo del movimiento, texturas por niveles de calidad, nada pesado en el JS inicial y presupuestos medidos de FPS, VRAM y arranque (fases 2 a 10).
 - Privacidad: sin cookies, sin analítica y sin peticiones a terceros; Network Error Logging desactivado en el dominio propio (fases 4, 9 y 11).
-- 835 tests unitarios, 152 e2e con regresión visual y Lighthouse en el CI (fase 10).
+- 835 tests unitarios, 153 e2e con la regresión visual y Lighthouse en el CI (fases 10 y 11).
 
 ### Despliegue
 - Cloudflare Pages desde GitHub Actions: vista previa por rama y producción por etiqueta `v*`, con el build verificado por el CI y comprobado tras publicar (fases 4 y 11).

diff --git a/docs/revision-textos.md b/docs/revision-textos.md
@@ -1717,7 +1717,7 @@ Corrección:
 
 **Párrafo 44**
 
-> En tierra-luna-sol.ivanchesa.com no se envían informes de errores al alojamiento (Network Error Logging): están desactivados. Solo los pide Cloudflare Pages, el alojamiento, en sus propias direcciones (las que acaban en pages.dev, como las vistas previas), a Chrome y Edge y cuando una petición falla.
+> En tierra-luna-sol.ivanchesa.com, el alojamiento no recibe informes de errores (Network Error Logging): están desactivados. En sus propias direcciones, las que acaban en pages.dev (como las vistas previas), Cloudflare Pages pide a algunos navegadores (Chrome y Edge) que le envíen un informe cuando falla una petición.
 
 Corrección:
 
